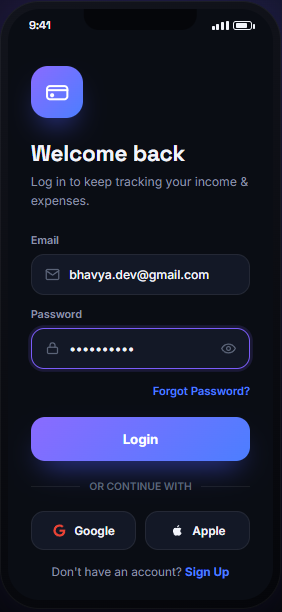
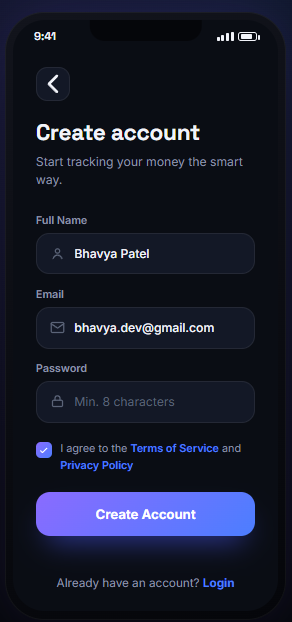
sign up screen

diff --git a/lib/screens/signup_screen.dart b/lib/screens/signup_screen.dart
@@ -1,0 +1,308 @@
+import 'package:expense_tracker/theme/app_colors.dart';
+import 'package:flutter/material.dart';
+import 'package:google_fonts/google_fonts.dart';
+
+class SignupScreen extends StatefulWidget {
+  const SignupScreen({super.key});
+
+  @override
+  State<SignupScreen> createState() => _SignupScreenState();
+}
+
+class _SignupScreenState extends State<SignupScreen> {
+  final _formKey = GlobalKey<FormState>();
+  bool isVisible = false;
+  bool isAgreed = false;
+  final TextEditingController _fullName = TextEditingController();
+  final TextEditingController _email = TextEditingController();
+  final TextEditingController _password = TextEditingController();
+
+  @override
+  Widget build(BuildContext context) {
+    return Scaffold(
+      body: SafeArea(
+        child: Padding(
+          padding: EdgeInsets.all(16),
+          child: Column(
+            crossAxisAlignment: CrossAxisAlignment.start,
+            children: [
+              Container(
+                padding: EdgeInsets.all(14),
+                decoration: BoxDecoration(
+                  border: Border.all(color: AppColors.border, width: 0.3),
+                  borderRadius: BorderRadius.circular(16),
+                  color: AppColors.surface2,
+                ),
+                child: const Icon(Icons.arrow_back, size: 20),
+              ),
+              SizedBox(height: 18),
+              Text(
+                "Create Account",
+                style: GoogleFonts.inter(
+                  color: AppColors.textPrimary,
+                  fontSize: 26,
+                  fontWeight: FontWeight.w800,
+                ),
+              ),
+              SizedBox(height: 6),
+              Text(
+                "Start tracking your money the smart way.",
+                style: GoogleFonts.inter(
+                  color: AppColors.textSecondary,
+                  fontSize: 16,
+                  fontWeight: FontWeight.w600,
+                ),
+              ),
+              SizedBox(height: 24),
+              Form(
+                key: _formKey,
+                autovalidateMode: AutovalidateMode.onUserInteraction,
+                child: Column(
+                  crossAxisAlignment: CrossAxisAlignment.start,
+                  children: [
+                    Text(
+                      "Full Name",
+                      style: GoogleFonts.inter(
+                        color: AppColors.textSecondary,
+                        fontSize: 16,
+                        fontWeight: FontWeight.w400,
+                      ),
+                    ),
+                    SizedBox(height: 6),
+                    TextFormField(
+                      controller: _fullName,
+                      decoration: InputDecoration(
+                        prefixIcon: Icon(
+                          Icons.person_outline_rounded,
+                          color: AppColors.textSecondary,
+                        ),
+                        filled: true,
+                        fillColor: AppColors.surface2,
+                        hintText: "Enter your full name",
+                        hintStyle: GoogleFonts.inter(
+                          color: AppColors.textSecondary,
+                        ),
+                        border: OutlineInputBorder(
+                          borderRadius: BorderRadius.circular(16),
+                          borderSide: BorderSide.none,
+                        ),
+                      ),
+                      keyboardType: TextInputType.name,
+                      validator: (value) {
+                        if (value == null ||
+                            value.isEmpty ||
+                            !value.contains('@')) {
+                          return "Please enter correct email address";
+                        }
+                        return null;
+                      },
+                    ),
+                    SizedBox(height: 16),
+                    Text(
+                      "Email",
+                      style: GoogleFonts.inter(
+                        color: AppColors.textSecondary,
+                        fontSize: 16,
+                        fontWeight: FontWeight.w400,
+                      ),
+                    ),
+                    SizedBox(height: 6),
+                    TextFormField(
+                      controller: _email,
+                      decoration: InputDecoration(
+                        prefixIcon: Icon(
+                          Icons.email_outlined,
+                          color: AppColors.textSecondary,
+                        ),
+                        filled: true,
+                        fillColor: AppColors.surface2,
+                        hintText: "Enter your mail",
+                        hintStyle: GoogleFonts.inter(
+                          color: AppColors.textSecondary,
+                        ),
+                        border: OutlineInputBorder(
+                          borderRadius: BorderRadius.circular(16),
+                          borderSide: BorderSide.none,
+                        ),
+                      ),
+                      keyboardType: TextInputType.emailAddress,
+                      validator: (value) {
+                        if (value == null ||
+                            value.isEmpty ||
+                            !value.contains('@')) {
+                          return "Please enter correct email address";
+                        }
+                        return null;
+                      },
+                    ),
+                    SizedBox(height: 16),
+                    Text(
+                      "Password",
+                      style: GoogleFonts.inter(
+                        color: AppColors.textSecondary,
+                        fontSize: 16,
+                        fontWeight: FontWeight.w400,
+                      ),
+                    ),
+                    SizedBox(height: 6),
+                    TextFormField(
+                      controller: _password,
+                      obscureText: !isVisible,
+                      decoration: InputDecoration(
+                        prefixIcon: Icon(
+                          Icons.lock_outline_rounded,
+                          color: AppColors.textSecondary,
+                        ),
+                        suffixIcon: IconButton(
+                          onPressed: () {
+                            setState(() {
+                              isVisible = !isVisible;
+                            });
+                          },
+                          icon: Icon(
+                            isVisible
+                                ? Icons.visibility_outlined
+                                : Icons.visibility_off,
+                            color: AppColors.textSecondary,
+                          ),
+                        ),
+                        filled: true,
+                        fillColor: AppColors.surface2,
+                        hintText: "Enter your password",
+                        hintStyle: GoogleFonts.inter(
+                          color: AppColors.textSecondary,
+                        ),
+                        border: OutlineInputBorder(
+                          borderRadius: BorderRadius.circular(16),
+                          borderSide: BorderSide.none,
+                        ),
+                      ),
+                      keyboardType: TextInputType.visiblePassword,
+                      validator: (value) {
+                        if (value == null ||
+                            value.isEmpty ||
+                            value.length < 8) {
+                          return "Please enter secure password";
+                        }
+                        return null;
+                      },
+                    ),
+                    SizedBox(height: 16),
+                    Row(
+                      crossAxisAlignment: CrossAxisAlignment.center,
+                      children: [
+                        Checkbox(
+                          shape: RoundedRectangleBorder(
+                            borderRadius: BorderRadius.circular(4),
+                          ),
+                          value: isAgreed,
+                          onChanged: (value) {
+                            setState(() {
+                              isAgreed = value!;
+                            });
+                          },
+                        ),
+
+                        const SizedBox(width: 4),
+
+                        Expanded(
+                          child: Wrap(
+                            children: [
+                              Text(
+                                "I agree to the ",
+                                style: GoogleFonts.inter(
+                                  color: AppColors.textSecondary,
+                                  fontSize: 16,
+                                  fontWeight: FontWeight.w400,
+                                ),
+                              ),
+                              Text(
+                                "Terms & Conditions ",
+                                style: GoogleFonts.inter(
+                                  color: AppColors.blue,
+                                  fontSize: 16,
+                                  fontWeight: FontWeight.w600,
+                                ),
+                              ),
+                              Text(
+                                "and ",
+                                style: GoogleFonts.inter(
+                                  color: AppColors.textSecondary,
+                                  fontSize: 16,
+                                  fontWeight: FontWeight.w400,
+                                ),
+                              ),
+                              Text(
+                                "Privacy & Policy",
+                                style: GoogleFonts.inter(
+                                  color: AppColors.blue,
+                                  fontSize: 16,
+                                  fontWeight: FontWeight.w600,
+                                ),
+                              ),
+                            ],
+                          ),
+                        ),
+                      ],
+                    ),
+                    SizedBox(height: 26),
+                    SizedBox(
+                      width: double.infinity,
+                      child: GestureDetector(
+                        child: Container(
+                          padding: EdgeInsets.all(14),
+                          decoration: BoxDecoration(
+                            gradient: AppColors.gradient,
+                            borderRadius: BorderRadius.circular(16),
+                            shape: BoxShape.rectangle,
+                          ),
+                          child: Center(
+                            child: Text(
+                              "Create Account",
+                              style: GoogleFonts.inter(
+                                color: AppColors.textPrimary,
+                                fontSize: 18,
+                                fontWeight: FontWeight.w800,
+                              ),
+                            ),
+                          ),
+                        ),
+                      ),
+                    ),
+                  ],
+                ),
+              ),
+              Spacer(),
+              GestureDetector(
+                onTap: () {
+                  Navigator.pop(context);
+                },
+                child: Row(
+                  mainAxisAlignment: MainAxisAlignment.center,
+                  children: [
+                    Text(
+                      "Already have an account? ",
+                      style: GoogleFonts.inter(
+                        color: AppColors.textSecondary,
+                        fontSize: 16,
+                        fontWeight: FontWeight.w400,
+                      ),
+                    ),
+                    Text(
+                      "Login",
+                      style: GoogleFonts.inter(
+                        color: AppColors.blue,
+                        fontSize: 16,
+                        fontWeight: FontWeight.w600,
+                      ),
+                    ),
+                  ],
+                ),
+              ),
+            ],
+          ),
+        ),
+      ),
+    );
+  }
+}

diff --git a/lib/screens/login_screen.dart b/lib/screens/login_screen.dart
@@ -1,3 +1,4 @@
+import 'package:expense_tracker/screens/signup_screen.dart';
 import 'package:expense_tracker/theme/app_colors.dart';
 import 'package:flutter/material.dart';
 import 'package:google_fonts/google_fonts.dart';
@@ -13,8 +14,8 @@ class _LoginScreenState extends State<LoginScreen> {
   final _formKey = GlobalKey<FormState>();
   bool isVisible = false;
 
-  TextEditingController _email = TextEditingController();
-  TextEditingController _password = TextEditingController();
+  final TextEditingController _email = TextEditingController();
+  final TextEditingController _password = TextEditingController();
 
   @override
   Widget build(BuildContext context) {
@@ -218,7 +219,6 @@ class _LoginScreenState extends State<LoginScreen> {
                       ),
                       SizedBox(height: 26),
                       Row(
-                        
                         children: [
                           Expanded(
                             child: Container(
@@ -229,7 +229,7 @@ class _LoginScreenState extends State<LoginScreen> {
                               decoration: BoxDecoration(
                                 borderRadius: BorderRadius.circular(18),
                                 color: AppColors.surface2,
-                               
+
                                 shape: BoxShape.rectangle,
                               ),
                               child: Row(
@@ -260,7 +260,7 @@ class _LoginScreenState extends State<LoginScreen> {
                               decoration: BoxDecoration(
                                 borderRadius: BorderRadius.circular(18),
                                 color: AppColors.surface2,
-                                
+
                                 shape: BoxShape.rectangle,
                               ),
                               child: Row(
@@ -283,9 +283,38 @@ class _LoginScreenState extends State<LoginScreen> {
                           ),
                         ],
                       ),
+                      
                     ],
                   ),
                 ),
+                SizedBox(height: 26),
+                      GestureDetector(
+                        onTap: (){
+                          Navigator.push(context, MaterialPageRoute(builder: (context) => SignupScreen()));
+                        },
+                        child: Row(
+                          mainAxisAlignment: MainAxisAlignment.center,
+                          children: [
+                            Text(
+                              "Don't have an account? ",
+                              style: GoogleFonts.inter(
+                                color: AppColors.textSecondary,
+                                fontSize: 16,
+                                fontWeight: FontWeight.w400,
+                              ),
+                            ),
+                            Text(
+                              "Sign Up",
+                              style: GoogleFonts.inter(
+                                color: AppColors.blue,
+                                fontSize: 16,
+                                fontWeight: FontWeight.w600,
+                              ),
+                            ),
+                      
+                          ],
+                        ),
+                      ),
               ],
             ),
           ),
